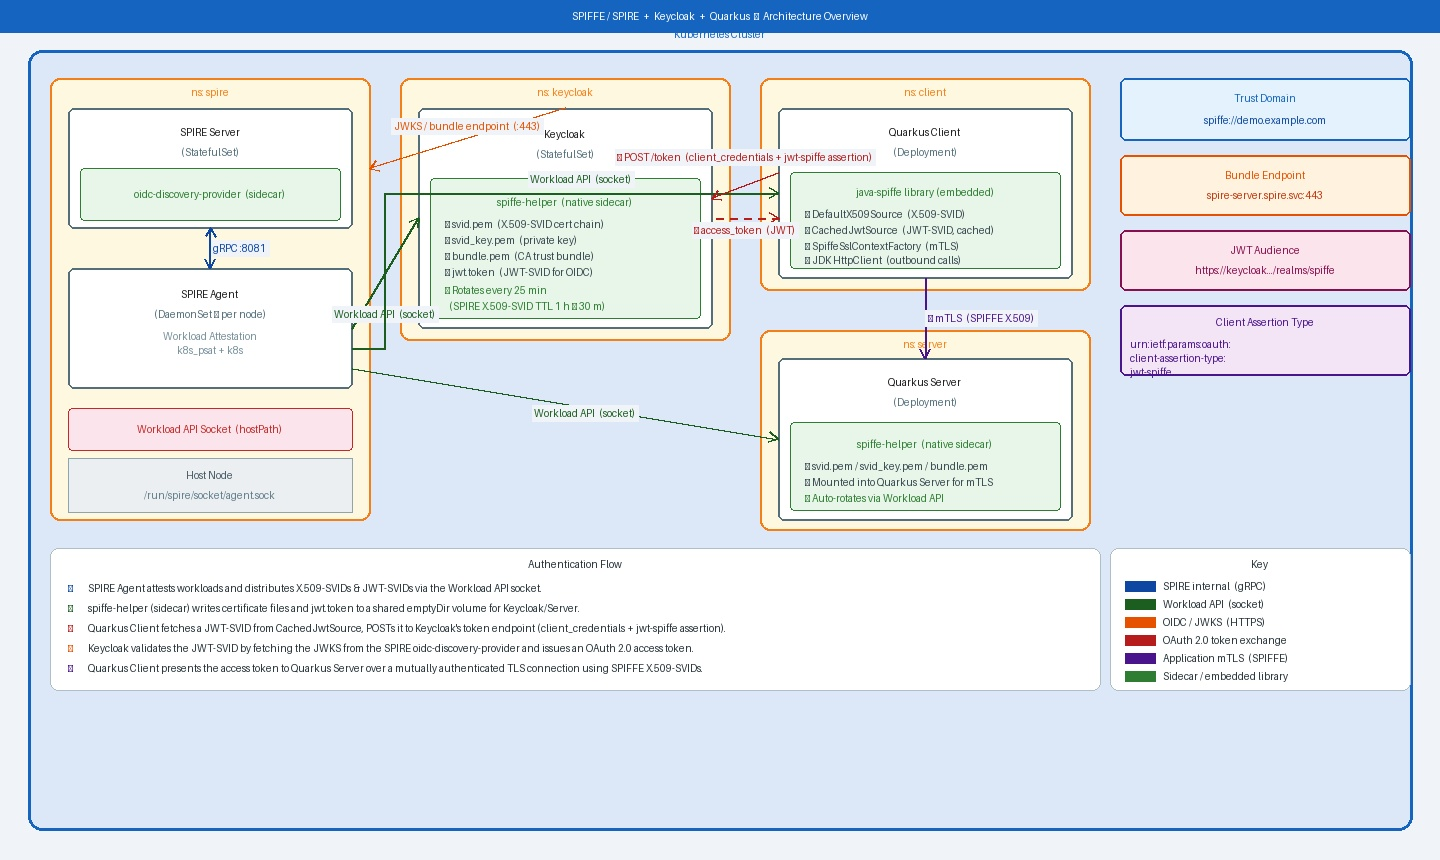
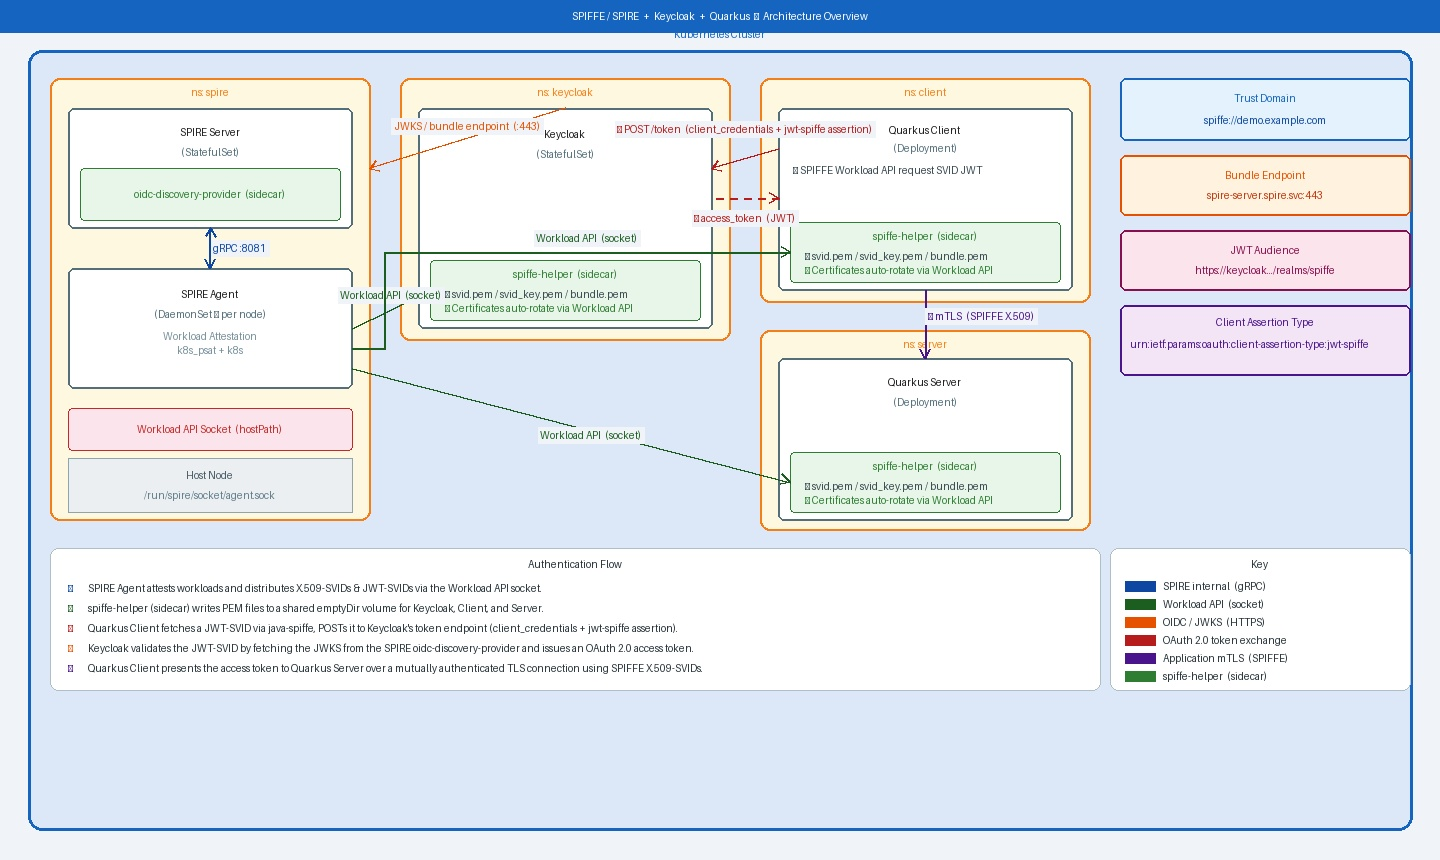
Misc cleanup

diff --git a/keycloak/spiffe-federation/docs/draw_arch.py b/keycloak/spiffe-federation/docs/draw_arch.py
@@ -1,6 +1,16 @@
 #!/usr/bin/env python3
 """
 Architecture diagram: SPIFFE/SPIRE + Keycloak + Quarkus on Kubernetes
+
+Requirements:
+    pip install Pillow
+
+Usage:
+    python3 docs/draw_arch.py
+
+Output is written to /tmp/spiffe_architecture.jpg.
+Copy it into the docs directory with:
+    cp /tmp/spiffe_architecture.jpg docs/architecture.jpg
 """
 from PIL import Image, ImageDraw, ImageFont
 import math
@@ -111,7 +121,7 @@ rrect(draw, NS_KC, C_NS_BG, C_NS_BORDER, radius=10, width=2)
 draw.text((565, 92), 'ns: keycloak', fill=C_NS_BORDER, font=f14, anchor='mm')
 
 # ns:client — right column, top
-NS_CLI = [760, 78, 1090, 290]
+NS_CLI = [760, 78, 1090, 302]
 rrect(draw, NS_CLI, C_NS_BG, C_NS_BORDER, radius=10, width=2)
 draw.text((925, 92), 'ns: client', fill=C_NS_BORDER, font=f14, anchor='mm')
 
@@ -165,33 +175,29 @@ KC_POD = [418, 108, 712, 328]
 rrect(draw, KC_POD, C_COMP_BG, C_COMP_BORDER, radius=6, width=2)
 centred(draw, 'Keycloak', 565, 134, f13)
 centred(draw, '(StatefulSet)', 565, 154, f11, '#546E7A')
-# spiffe-helper sidecar
-KCSH = [430, 178, 700, 318]
+# spiffe-helper sidecar — anchored to bottom of KC_POD
+KCSH = [430, 260, 700, 320]
 rrect(draw, KCSH, C_SIDECAR_BG, C_SIDECAR_BORDER, radius=4, width=1)
-centred(draw, 'spiffe-helper  (native sidecar)', 565, 202, f11, '#2E7D32')
-draw.text((445, 218), '• svid.pem  (X.509-SVID cert chain)', fill='#37474F', font=f10)
-draw.text((445, 234), '• svid_key.pem  (private key)', fill='#37474F', font=f10)
-draw.text((445, 250), '• bundle.pem  (CA trust bundle)', fill='#37474F', font=f10)
-draw.text((445, 266), '• jwt.token  (JWT-SVID for OIDC)', fill='#37474F', font=f10)
-draw.text((445, 284), '↺ Rotates every 25 min', fill='#2E7D32', font=f10)
-draw.text((445, 300), '  (SPIRE X.509-SVID TTL 1 h → 30 m)', fill='#2E7D32', font=f10)
+centred(draw, 'spiffe-helper  (sidecar)', 565, 274, f11, '#2E7D32')
+draw.text((445, 288), '• svid.pem / svid_key.pem / bundle.pem', fill='#37474F', font=f10)
+draw.text((445, 302), '↺ Certificates auto-rotate via Workload API', fill='#2E7D32', font=f10)
 
 KC_LEFT = KC_POD[0];  KC_RIGHT = KC_POD[2]
 KC_MID_Y = (KC_POD[1] + KC_POD[3]) // 2
 
 # ── Quarkus Client pod ────────────────────────────────────────────────────
-CLI_POD = [778, 108, 1072, 278]
+CLI_POD = [778, 108, 1072, 290]
 rrect(draw, CLI_POD, C_COMP_BG, C_COMP_BORDER, radius=6, width=2)
-centred(draw, 'Quarkus Client', 925, 132, f13)
-centred(draw, '(Deployment)', 925, 152, f11, '#546E7A')
-# java-spiffe note
-CLIPY = [790, 172, 1060, 268]
+centred(draw, 'Quarkus Client', 925, 130, f13)
+centred(draw, '(Deployment)', 925, 148, f11, '#546E7A')
+draw.text((793, 164), '• SPIFFE Workload API request SVID JWT', fill='#37474F', font=f10)
+
+# spiffe-helper sidecar — anchored to bottom of CLI_POD
+CLIPY = [790, 222, 1060, 282]
 rrect(draw, CLIPY, C_SIDECAR_BG, C_SIDECAR_BORDER, radius=4, width=1)
-centred(draw, 'java-spiffe library (embedded)', 925, 192, f11, '#2E7D32')
-draw.text((805, 208), '• DefaultX509Source  (X.509-SVID)', fill='#37474F', font=f10)
-draw.text((805, 224), '• CachedJwtSource  (JWT-SVID, cached)', fill='#37474F', font=f10)
-draw.text((805, 240), '• SpiffeSslContextFactory  (mTLS)', fill='#37474F', font=f10)
-draw.text((805, 254), '• JDK HttpClient  (outbound calls)', fill='#37474F', font=f10)
+centred(draw, 'spiffe-helper  (sidecar)', 925, 236, f11, '#2E7D32')
+draw.text((805, 250), '• svid.pem / svid_key.pem / bundle.pem', fill='#37474F', font=f10)
+draw.text((805, 264), '↺ Certificates auto-rotate via Workload API', fill='#2E7D32', font=f10)
 
 CLI_LEFT = CLI_POD[0];  CLI_BOT = CLI_POD[3];  CLI_MID_X = 925
 CLI_TOP = CLI_POD[1];   CLI_MID_Y = (CLI_POD[1] + CLI_POD[3]) // 2
@@ -201,13 +207,12 @@ SRV_POD = [778, 358, 1072, 520]
 rrect(draw, SRV_POD, C_COMP_BG, C_COMP_BORDER, radius=6, width=2)
 centred(draw, 'Quarkus Server', 925, 382, f13)
 centred(draw, '(Deployment)', 925, 402, f11, '#546E7A')
-# spiffe-helper sidecar
-SRVSH = [790, 422, 1060, 510]
+# spiffe-helper sidecar — anchored to bottom of SRV_POD
+SRVSH = [790, 452, 1060, 512]
 rrect(draw, SRVSH, C_SIDECAR_BG, C_SIDECAR_BORDER, radius=4, width=1)
-centred(draw, 'spiffe-helper  (native sidecar)', 925, 444, f11, '#2E7D32')
-draw.text((805, 460), '• svid.pem / svid_key.pem / bundle.pem', fill='#37474F', font=f10)
-draw.text((805, 476), '• Mounted into Quarkus Server for mTLS', fill='#37474F', font=f10)
-draw.text((805, 492), '↺ Auto-rotates via Workload API', fill='#2E7D32', font=f10)
+centred(draw, 'spiffe-helper  (sidecar)', 925, 466, f11, '#2E7D32')
+draw.text((805, 480), '• svid.pem / svid_key.pem / bundle.pem', fill='#37474F', font=f10)
+draw.text((805, 494), '↺ Certificates auto-rotate via Workload API', fill='#2E7D32', font=f10)
 
 SRV_LEFT = SRV_POD[0];  SRV_TOP = SRV_POD[1];  SRV_MID_Y = (SRV_POD[1] + SRV_POD[3]) // 2
 SRV_MID_X = 925
@@ -226,26 +231,29 @@ arrow(draw, SA_CX, SA_TOP, SS_CX, SS_BOT,
       color=NAVY, width=2, bidirectional=True)
 arrow_label(draw, 'gRPC :8081', SA_CX + 30, (SA_TOP + SS_BOT) // 2, f10, NAVY)
 
+# Sidecar midpoints for arrow targets
+KCSH_LEFT = KCSH[0];  KCSH_MID_Y = (KCSH[1] + KCSH[3]) // 2
+CLIPY_LEFT = CLIPY[0]; CLIPY_MID_Y = (CLIPY[1] + CLIPY[3]) // 2
+SRVSH_LEFT = SRVSH[0]; SRVSH_MID_Y = (SRVSH[1] + SRVSH[3]) // 2
+
 # 2. SPIRE Agent → Keycloak spiffe-helper (Workload API)
-#    from SA right edge middle to KC left edge middle
-arrow(draw, SA_RIGHT, SA_MID_Y, KC_LEFT, KC_MID_Y, color=GREEN, width=2)
+arrow(draw, SA_RIGHT, SA_MID_Y, KCSH_LEFT, KCSH_MID_Y, color=GREEN, width=2)
 arrow_label(draw, 'Workload API  (socket)',
-            (SA_RIGHT + KC_LEFT) // 2, SA_MID_Y - 14, f10, GREEN)
+            (SA_RIGHT + KCSH_LEFT) // 2, (SA_MID_Y + KCSH_MID_Y) // 2 - 14, f10, GREEN)
 
 # 3. SPIRE Agent → Quarkus Client (Workload API) — route via a bend
-#    SA right, SA_MID_Y → bend right to x=390 → up to CLI left, CLI_MID_Y
 bx = 385
 draw.line([(SA_RIGHT, SA_MID_Y + 20), (bx, SA_MID_Y + 20)], fill=GREEN, width=2)
-draw.line([(bx, SA_MID_Y + 20), (bx, CLI_MID_Y)], fill=GREEN, width=2)
-arrow(draw, bx, CLI_MID_Y, CLI_LEFT, CLI_MID_Y, color=GREEN, width=2)
+draw.line([(bx, SA_MID_Y + 20), (bx, CLIPY_MID_Y)], fill=GREEN, width=2)
+arrow(draw, bx, CLIPY_MID_Y, CLIPY_LEFT, CLIPY_MID_Y, color=GREEN, width=2)
 arrow_label(draw, 'Workload API  (socket)',
-            (bx + CLI_LEFT) // 2, CLI_MID_Y - 14, f10, GREEN)
+            (bx + CLIPY_LEFT) // 2, CLIPY_MID_Y - 14, f10, GREEN)
 
-# 4. SPIRE Agent → Quarkus Server (Workload API) — route via bend below
-arrow(draw, SA_RIGHT, SA_MID_Y + 40, SRV_LEFT, SRV_MID_Y,
+# 4. SPIRE Agent → Quarkus Server (Workload API)
+arrow(draw, SA_RIGHT, SA_MID_Y + 40, SRVSH_LEFT, SRVSH_MID_Y,
       color=GREEN, width=2)
 arrow_label(draw, 'Workload API  (socket)',
-            (SA_RIGHT + SRV_LEFT) // 2 + 20, (SA_MID_Y + 40 + SRV_MID_Y) // 2 + 10,
+            (SA_RIGHT + SRVSH_LEFT) // 2 + 20, (SA_MID_Y + 40 + SRVSH_MID_Y) // 2 + 10,
             f10, GREEN)
 
 # 5. Keycloak → SPIRE Server oidc-discovery-provider  (JWKS / bundle endpoint)
@@ -262,21 +270,21 @@ arrow_label(draw, 'JWKS / bundle endpoint  (:443)',
 # ── OAuth 2.0 flow arrows ─────────────────────────────────────────────────
 # Step ①  Client → Keycloak: JWT-SVID exchange (token endpoint)
 KC_MID_X = 565
-arrow(draw, CLI_LEFT, CLI_MID_Y - 20,
-      KC_RIGHT, KC_MID_Y - 20, color=RED, width=2)
+arrow(draw, CLI_LEFT, CLI_MID_Y - 50,
+      KC_RIGHT, KC_MID_Y - 50, color=RED, width=2)
 arrow_label(draw, '① POST /token  (client_credentials + jwt-spiffe assertion)',
-            (CLI_LEFT + KC_RIGHT) // 2, CLI_MID_Y - 36, f10, RED)
+            (CLI_LEFT + KC_RIGHT) // 2, CLI_MID_Y - 70, f10, RED)
 
 # Step ② Keycloak → Client: access token response (dashed — draw as dots)
 for xi in range(KC_RIGHT + 4, CLI_LEFT - 4, 14):
-    draw.line([(xi, KC_MID_Y), (xi + 7, KC_MID_Y)], fill=RED, width=2)
-arrow(draw, CLI_LEFT - 1, KC_MID_Y, CLI_LEFT, KC_MID_Y, color=RED, width=2)
+    draw.line([(xi, KC_MID_Y - 20), (xi + 7, KC_MID_Y-20)], fill=RED, width=2)
+arrow(draw, CLI_LEFT - 1, KC_MID_Y - 20, CLI_LEFT, KC_MID_Y - 20, color=RED, width=2)
 arrow_label(draw, '② access_token  (JWT)',
-            (CLI_LEFT + KC_RIGHT) // 2, KC_MID_Y + 12, f10, RED)
+            (CLI_LEFT + KC_RIGHT) // 2, KC_MID_Y, f10, RED)
 
 # Step ③ Client → Server: mTLS (SPIFFE)  downward
 arrow(draw, CLI_MID_X, CLI_BOT, SRV_MID_X, SRV_TOP, color=PURPLE, width=2)
-arrow_label(draw, '③ mTLS  (SPIFFE X.509)', CLI_MID_X + 56, (CLI_BOT + SRV_TOP) // 2,
+arrow_label(draw, '③ mTLS  (SPIFFE X.509)', CLI_MID_X + 56, (CLI_BOT + SRV_TOP - 15) // 2,
             f10, PURPLE)
 
 # ══════════════════════════════════════════════════════════════════════════
@@ -288,8 +296,8 @@ centred(draw, 'Authentication Flow', 575, 564, f14, '#263238')
 
 steps = [
     ("①", NAVY,   "SPIRE Agent attests workloads and distributes X.509-SVIDs & JWT-SVIDs via the Workload API socket."),
-    ("②", GREEN,  "spiffe-helper (sidecar) writes certificate files and jwt.token to a shared emptyDir volume for Keycloak/Server."),
-    ("③", RED,    "Quarkus Client fetches a JWT-SVID from CachedJwtSource, POSTs it to Keycloak's token endpoint (client_credentials + jwt-spiffe assertion)."),
+    ("②", GREEN,  "spiffe-helper (sidecar) writes PEM files to a shared emptyDir volume for Keycloak, Client, and Server."),
+    ("③", RED,    "Quarkus Client fetches a JWT-SVID via java-spiffe, POSTs it to Keycloak's token endpoint (client_credentials + jwt-spiffe assertion)."),
     ("④", ORANGE, "Keycloak validates the JWT-SVID by fetching the JWKS from the SPIRE oidc-discovery-provider and issues an OAuth 2.0 access token."),
     ("⑤", PURPLE, "Quarkus Client presents the access token to Quarkus Server over a mutually authenticated TLS connection using SPIFFE X.509-SVIDs."),
 ]
@@ -318,7 +326,7 @@ key_items = [
     (ORANGE, 'OIDC / JWKS  (HTTPS)'),
     (RED,    'OAuth 2.0 token exchange'),
     (PURPLE, 'Application mTLS  (SPIFFE)'),
-    (C_SIDECAR_BORDER, 'Sidecar / embedded library'),
+    (C_SIDECAR_BORDER, 'spiffe-helper  (sidecar)'),
 ]
 for i, (col, label) in enumerate(key_items):
     y = 586 + i * 18
@@ -349,9 +357,7 @@ centred(draw, 'https://keycloak…/realms/spiffe', 1265, 270, f11, '#880E4F')
 CA = [1120, 305, 1410, 375]
 rrect(draw, CA, '#f3e5f5', '#4A148C', radius=6, width=2)
 centred(draw, 'Client Assertion Type', 1265, 322, f13, '#4A148C')
-draw.text((1130, 338), 'urn:ietf:params:oauth:', fill='#4A148C', font=f9 if (f9 := load_font(SANS, 9)) else f10)
-draw.text((1130, 352), 'client-assertion-type:', fill='#4A148C', font=f9)
-draw.text((1130, 366), 'jwt-spiffe', fill='#4A148C', font=f9)
+draw.text((1130, 338), 'urn:ietf:params:oauth:client-assertion-type:jwt-spiffe', fill='#4A148C', font=f9 if (f9 := load_font(SANS, 9)) else f10)
 
 # ── Save ───────────────────────────────────────────────────────────────────
 out = '/tmp/spiffe_architecture.jpg'

diff --git a/keycloak/spiffe-federation/client/src/main/java/com/example/spiffe/client/ZeroTrustContext.java b/keycloak/spiffe-federation/client/src/main/java/com/example/spiffe/client/ZeroTrustContext.java
@@ -7,120 +7,54 @@ import java.net.http.HttpClient;
 import java.net.http.HttpRequest;
 import java.net.http.HttpResponse;
 import java.nio.charset.StandardCharsets;
-import java.security.KeyStore;
-import java.security.cert.X509Certificate;
 import java.util.Base64;
-import java.util.Random;
 
 import javax.net.ssl.SSLContext;
-import javax.net.ssl.TrustManager;
-import javax.net.ssl.TrustManagerFactory;
 
 import org.eclipse.microprofile.config.inject.ConfigProperty;
 import org.jboss.logging.Logger;
 
 import com.fasterxml.jackson.databind.ObjectMapper;
 
-import io.spiffe.exception.JwtSourceException;
-import io.spiffe.exception.SocketEndpointAddressException;
-import io.spiffe.exception.X509SourceException;
-import io.spiffe.provider.SpiffeSslContextFactory;
-import io.spiffe.provider.SpiffeTrustManagerFactory;
-import io.spiffe.spiffeid.SpiffeIdUtils;
-import io.spiffe.spiffeid.TrustDomain;
+import io.quarkus.tls.TlsConfiguration;
+import io.quarkus.tls.TlsConfigurationRegistry;
 import io.spiffe.workloadapi.CachedJwtSource;
-import io.spiffe.workloadapi.DefaultX509Source;
 import io.spiffe.workloadapi.JwtSource;
-import io.spiffe.workloadapi.X509Source;
 import jakarta.annotation.PostConstruct;
 import jakarta.annotation.PreDestroy;
 import jakarta.enterprise.context.ApplicationScoped;
+import jakarta.inject.Inject;
 
 @ApplicationScoped
 public class ZeroTrustContext {
 
     private static final Logger log = Logger.getLogger(ZeroTrustContext.class);
 
-    // Quarkus servers only enable v1.3 by default
-    private static final String TLS_PROTOCOL = "TLSv1.3";
-
     @ConfigProperty(name = "server.url")
     String serverUrl;
 
-    @ConfigProperty(name = "spiffe.ids", defaultValue = "*")
-    String spiffeIds;
+    @Inject
+    TlsConfigurationRegistry tlsRegistry;
 
-    @ConfigProperty(name = "spiffe.tls", defaultValue = "MTLS")
-    TLSConfig tlsMode;
-
-    enum TLSConfig {
-        MTLS,
-        TLS,
-        LEGACY
-    }
-
-    private volatile X509Source x509Source;
     private volatile JwtSource jwtSource;
     private volatile HttpClient httpClient;
 
     @PostConstruct
     void init() {
-        // Initialize SPIFFE sources. These open gRPC streams to the SPIRE Agent specified by
-        // SPIFFE_ENDPOINT_SOCKET and automatically rotate the certs/tokens stored in-memory.
         try {
-            x509Source = DefaultX509Source.newSource();
             jwtSource = CachedJwtSource.newSource();
 
-            log.info("Configuring SSLContext TLS=" + tlsMode);
+            TlsConfiguration tlsConfig = tlsRegistry.get("spiffe").orElseThrow(
+                    () -> new IllegalStateException("TLS configuration 'spiffe' not found"));
+            SSLContext sslContext = tlsConfig.createSSLContext();
+
             httpClient = HttpClient.newBuilder()
-                  .sslContext(getContext())
-                  .build();
-        } catch (X509SourceException | JwtSourceException | SocketEndpointAddressException e) {
-            log.error("Failed to initialize SPIFFE source: " + e.getMessage());
+                    .sslContext(sslContext)
+                    .build();
+            log.info("HttpClient initialized with Quarkus TLS Registry SSLContext");
         } catch (Exception e) {
-            log.error("Failed to generate SSL Context: " + e.getMessage());
+            log.error("Failed to initialize ZeroTrustContext: " + e.getMessage());
         }
-    }
-
-    SSLContext getContext() throws Exception {
-        boolean allowAllIds = "*".equals(spiffeIds);
-        return switch (tlsMode) {
-            case MTLS -> {
-                var optionsBuilder = SpiffeSslContextFactory.SslContextOptions.builder()
-                      .sslProtocol(TLS_PROTOCOL)
-                      .x509Source(x509Source);
-
-                if (allowAllIds) {
-                    optionsBuilder.acceptAnySpiffeId();
-                } else {
-                    optionsBuilder.acceptedSpiffeIdsSupplier(() -> SpiffeIdUtils.toSetOfSpiffeIds(spiffeIds));
-                }
-                yield SpiffeSslContextFactory.getSslContext(optionsBuilder.build());
-            }
-            case TLS -> {
-                SpiffeTrustManagerFactory trustManagerFactory = new SpiffeTrustManagerFactory();
-                TrustManager[] trustManagers = allowAllIds ?
-                      trustManagerFactory.engineGetTrustManagers(x509Source) :
-                      trustManagerFactory.engineGetTrustManagers(x509Source, () -> SpiffeIdUtils.toSetOfSpiffeIds(spiffeIds));
-                SSLContext ctx = SSLContext.getInstance(TLS_PROTOCOL);
-                ctx.init(null, trustManagers, null);
-                yield ctx;
-            }
-            case LEGACY -> {
-                String trustDomainName = "demo.example.com";
-                X509Certificate caCertificate = x509Source.getBundleForTrustDomain(TrustDomain.parse(trustDomainName)).getX509Authorities().iterator().next();
-                KeyStore keyStore = KeyStore.getInstance(KeyStore.getDefaultType());
-                keyStore.load(null, null);
-                keyStore.setCertificateEntry(trustDomainName, caCertificate);
-
-                TrustManagerFactory tmf = TrustManagerFactory.getInstance(TrustManagerFactory.getDefaultAlgorithm());
-                tmf.init(keyStore);
-
-                SSLContext ctx = SSLContext.getInstance(TLS_PROTOCOL);
-                ctx.init(null, tmf.getTrustManagers(), null);
-                yield ctx;
-            }
-        };
     }
 
     HttpClient getHttpClient() {
@@ -167,14 +101,6 @@ public class ZeroTrustContext {
                 jwtSource.close();
             } catch (IOException e) {
                 log.warnf("Error closing SPIFFE JwtSource: %s", e.getMessage());
-            }
-        }
-
-        if (x509Source != null) {
-            try {
-                x509Source.close();
-            } catch (IOException e) {
-                log.warnf("Error closing SPIFFE X509Source: %s", e.getMessage());
             }
         }
     }
